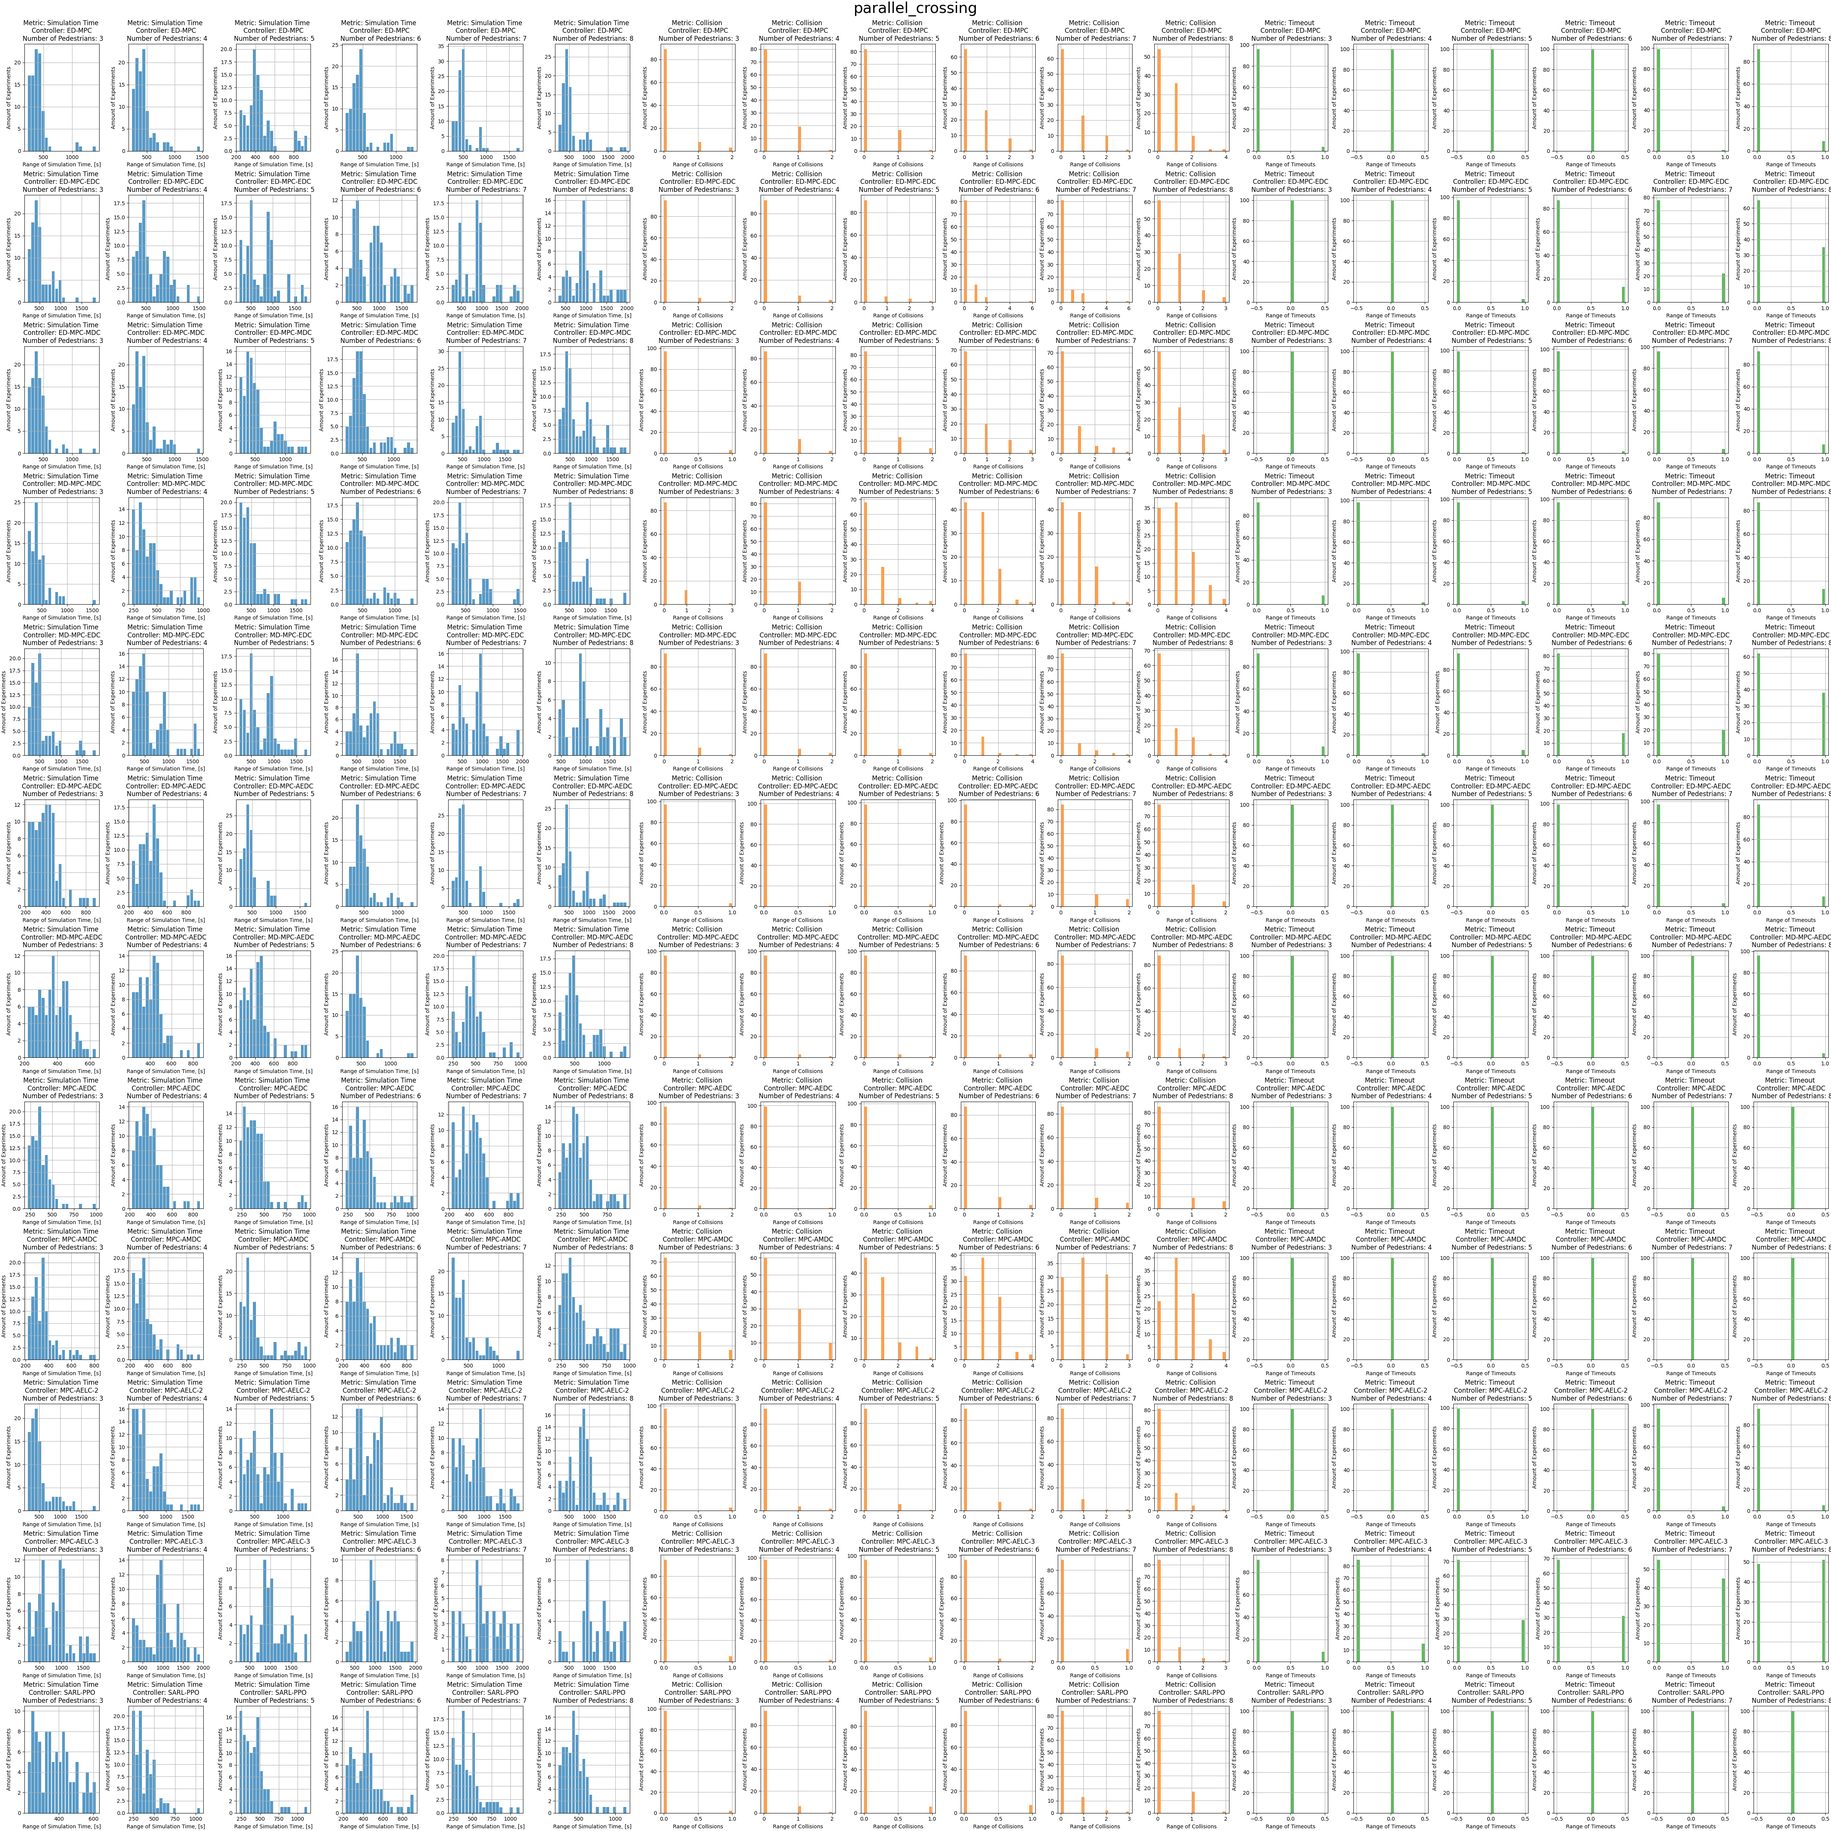
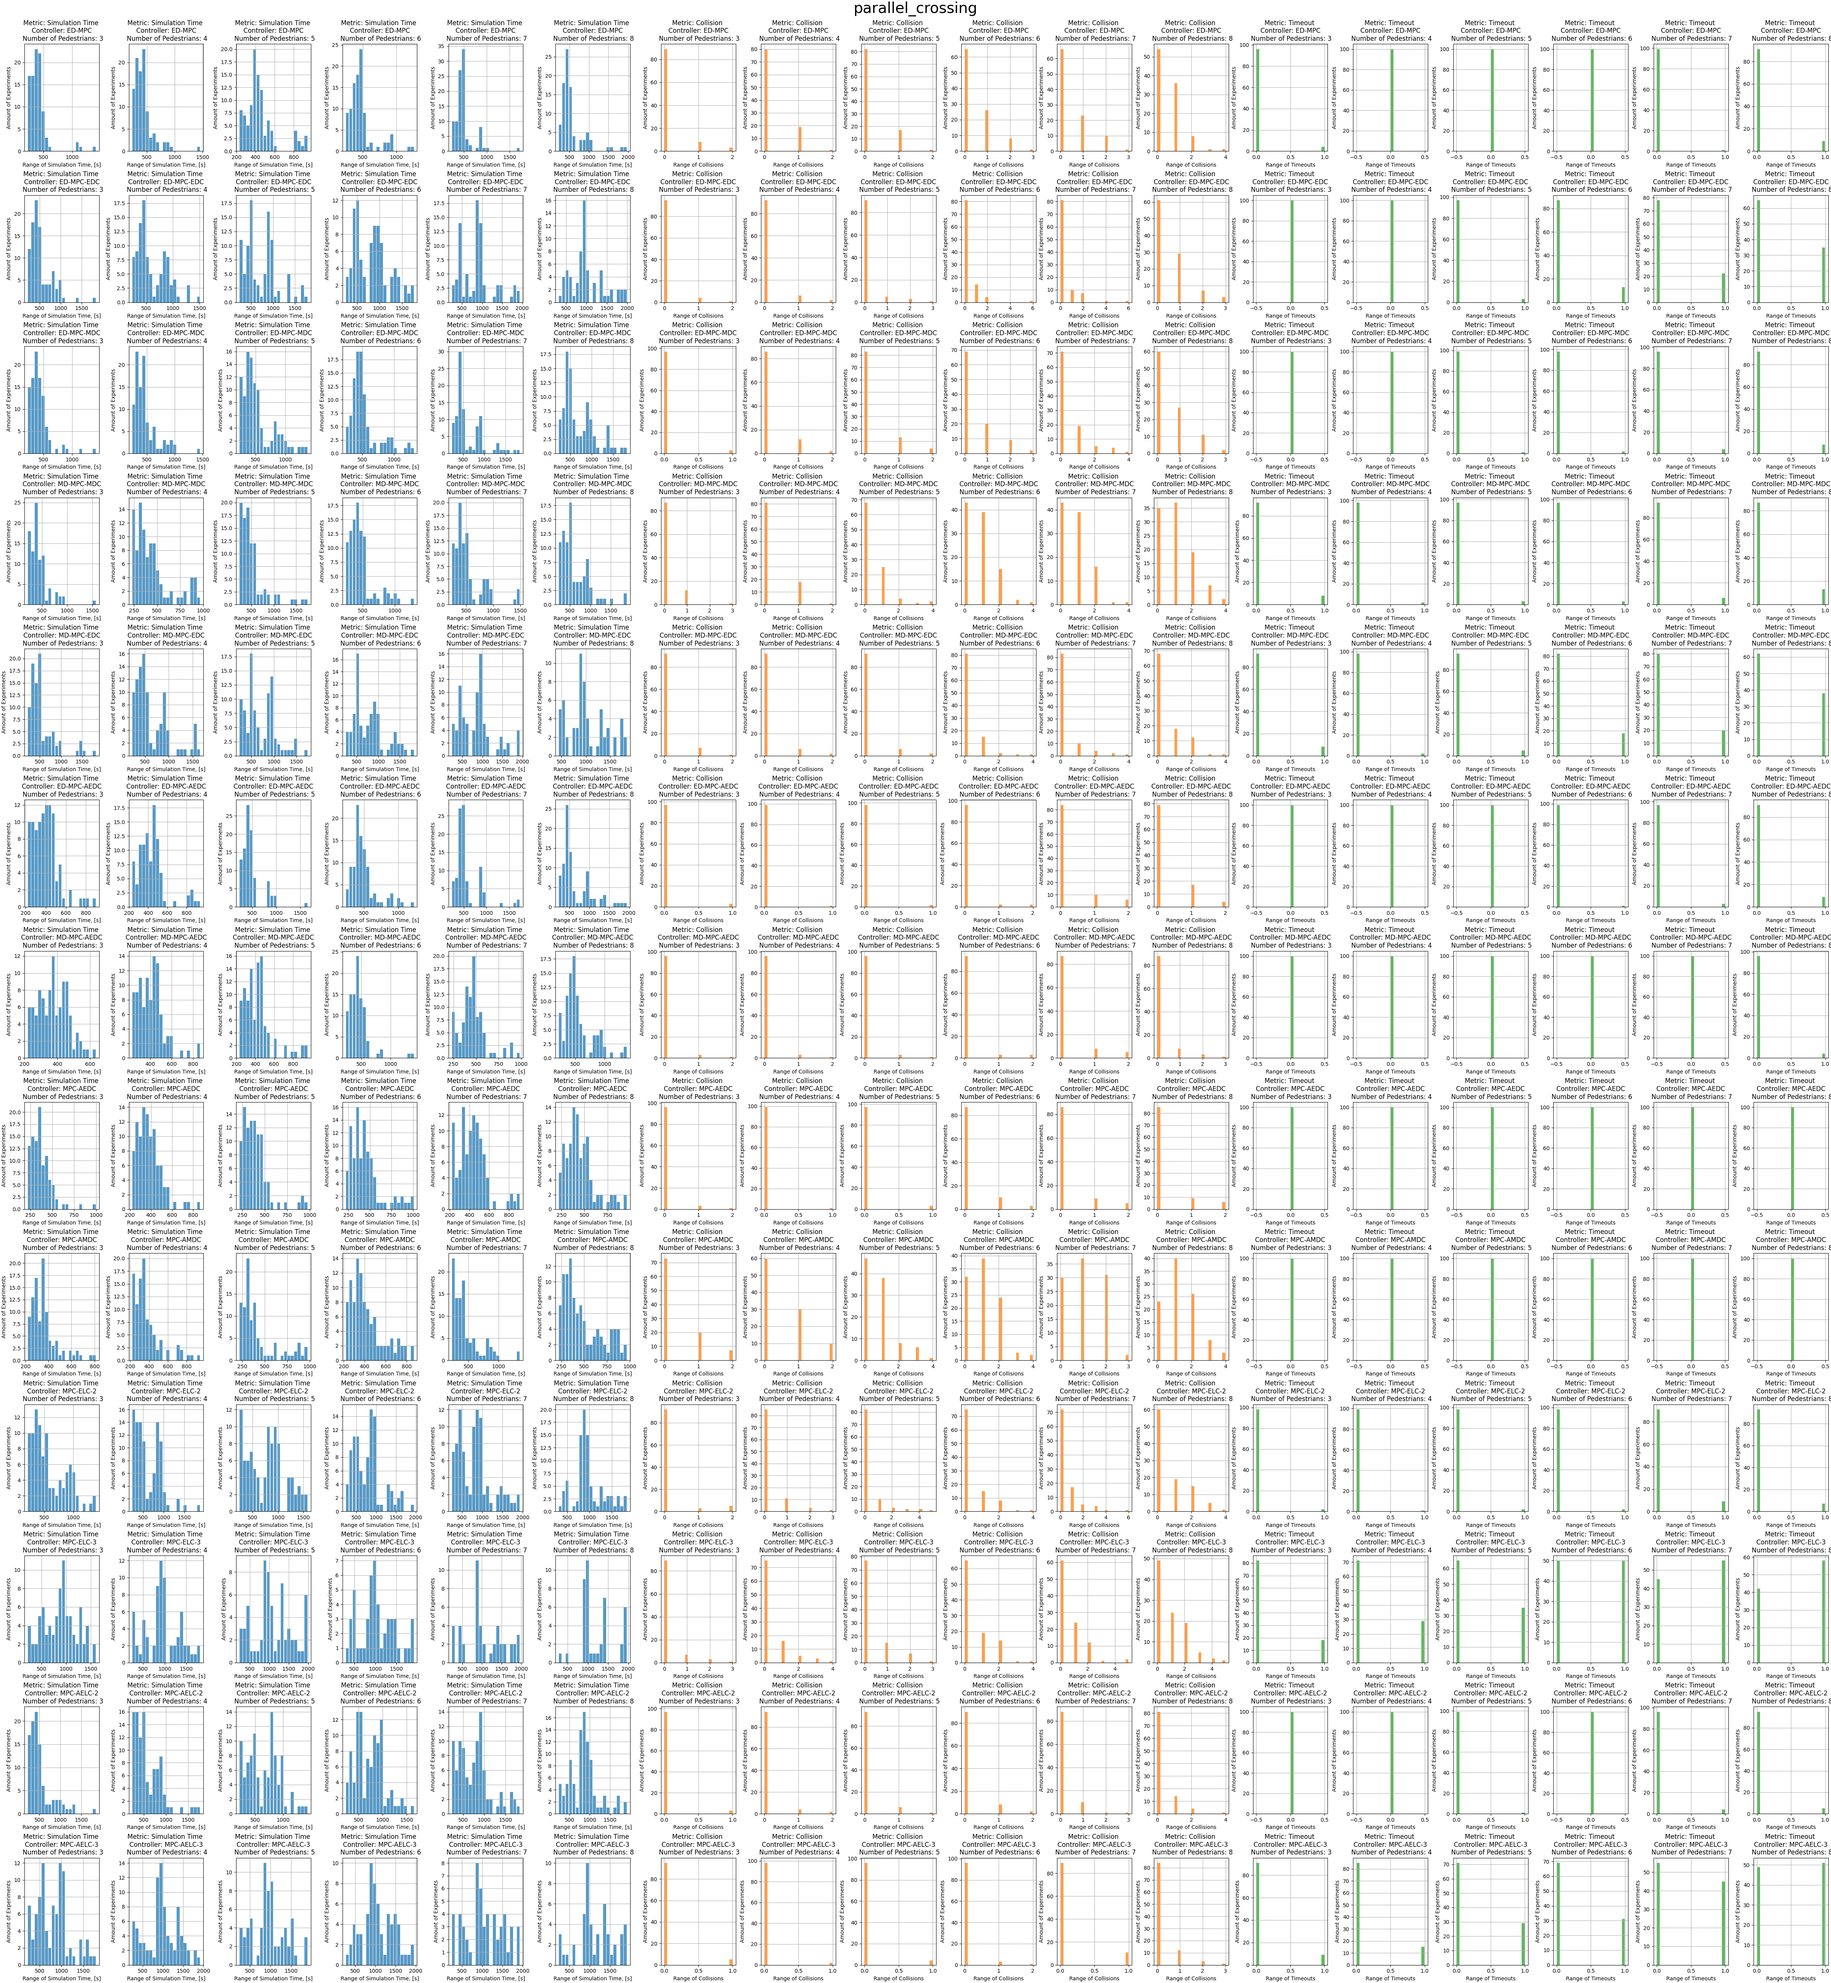
Final results

Changed region(s): [[0.0, 0.0, 1.0, 1.0], [0.9688, 0.0, 1.0, 0.0312]]

diff --git a/evaluation/scripts/collect_statistics_2.py b/evaluation/scripts/collect_statistics_2.py
@@ -55,9 +55,13 @@ def collect_statistics(folder_name: str,
 
         # Create mean plot
         fig_graph, axs_graph = plt.subplot_mosaic([[0, 1, 2]], 
-                                figsize=[25, 7], facecolor='white') #, layout='constrained'
-        #fig_graph.suptitle(scenes_list[scene_id], fontsize=28)
-
+                                figsize=[26, 8.5], facecolor='white') #, layout='constrained'
+        if scene == 'circular_crossing':
+            fig_graph.suptitle(f"Statistical Results for Circular Crossing Scenario" , fontsize=28)
+        elif scene == 'random_crossing':
+            fig_graph.suptitle(f"Statistical Results for Random Crossing Scenario" , fontsize=28)
+        else: 
+            fig_graph.suptitle(f"Statistical Results for Parallel Crossing Scenario" , fontsize=28)
         displacement = np.linspace(-0.25, 0.25, len(controller_list))
         legend_elements_controllers = []
         for controller_id, controller in enumerate(controller_list):
@@ -143,12 +147,12 @@ def collect_statistics(folder_name: str,
             # Create graph
             # Simulation step to goal
             axs_graph[0].scatter(pedestrian_range + displacement[controller_id], mean_tables_data[scene_id, controller_id, :len(pedestrian_range)], linewidth=1, label=f"{controller}", marker="o", color=DEFAULT_COLOR_HEX_PALETTE[controller_id])
-            axs_graph[0].plot(pedestrian_range + displacement[controller_id], median_tables_data[scene_id, controller_id, :len(pedestrian_range)], linewidth=2, linestyle="--", label=f"{controller}", marker="^", markersize=SIZE//2, color=DEFAULT_COLOR_HEX_PALETTE[controller_id])
+            axs_graph[0].plot(pedestrian_range + displacement[controller_id], median_tables_data[scene_id, controller_id, :len(pedestrian_range)], linewidth=1.5, linestyle="--", label=f"{controller}", marker="^", markersize=SIZE//3, color=DEFAULT_COLOR_HEX_PALETTE[controller_id])
             for i, ped in enumerate(pedestrian_range):
                 center_range = np.linspace(-0.25, 0.25, len(controller_list)) + ped
                 q25 = q25_tables_data[scene_id, controller_id, i]
                 q75 = q75_tables_data[scene_id, controller_id, i]
-                add_box(axs_graph[0], center_range[controller_id], q25, q75, color=DEFAULT_COLOR_HEX_PALETTE[controller_id], width=0.03, alpha=0.5)
+                add_box(axs_graph[0], center_range[controller_id], q25, q75, color=DEFAULT_COLOR_HEX_PALETTE[controller_id], width=0.015, alpha=0.5)
             axs_graph[0].grid(True)
             axs_graph[0].set_xlabel("Number of Pedestrians, [#]", fontsize=SIZE)
             axs_graph[0].set_ylabel("Simulation Steps to Target, [#]", fontsize=SIZE)
@@ -157,18 +161,18 @@ def collect_statistics(folder_name: str,
             #axs_graph[0].legend(fontsize=size)
             legend_elements = [Line2D([0], [0], color='black', marker="o", lw=0, label='Mean'),
                                Line2D([0], [0], marker='^', color='black', label='Median', linestyle='--',
-                          markerfacecolor='black', markersize=10),
+                          markerfacecolor='black', markersize=7),
                                Line2D([0], [0], color='black', alpha=0.5, label='IQR')]
 
             axs_graph[0].legend(handles=legend_elements, bbox_to_anchor=(-.2, 1), loc='upper right', borderaxespad=0., fontsize=20)
             # Collisions
             axs_graph[1].scatter(pedestrian_range + displacement[controller_id], mean_tables_data[scene_id, controller_id, len(pedestrian_range):len(pedestrian_range)*2], linewidth=1, label=f"{controller}",  marker="o", color=DEFAULT_COLOR_HEX_PALETTE[controller_id])
-            axs_graph[1].plot(pedestrian_range + displacement[controller_id], median_tables_data[scene_id, controller_id, len(pedestrian_range):len(pedestrian_range)*2], linewidth=2, linestyle="--",  marker="^", markersize=SIZE//2, color=DEFAULT_COLOR_HEX_PALETTE[controller_id])
+            axs_graph[1].plot(pedestrian_range + displacement[controller_id], median_tables_data[scene_id, controller_id, len(pedestrian_range):len(pedestrian_range)*2], linewidth=1.5, linestyle="--",  marker="^", markersize=SIZE//3, color=DEFAULT_COLOR_HEX_PALETTE[controller_id])
             for i, ped in enumerate(pedestrian_range):
                 center_range = np.linspace(-0.25, 0.25, len(controller_list)) + ped
                 q25 = q25_tables_data[scene_id, controller_id, i+len(pedestrian_range)]
                 q75 = q75_tables_data[scene_id, controller_id, i+len(pedestrian_range)]
-                add_box(axs_graph[1], center_range[controller_id], q25, q75, color=DEFAULT_COLOR_HEX_PALETTE[controller_id], width=0.03, alpha=0.5)
+                add_box(axs_graph[1], center_range[controller_id], q25, q75, color=DEFAULT_COLOR_HEX_PALETTE[controller_id], width=0.015, alpha=0.5)
             axs_graph[1].grid(True)
             axs_graph[1].set_xlabel("Number of Pedestrians, [#]", fontsize=SIZE)
             axs_graph[1].set_ylabel("Number of Collisions, [#]", fontsize=SIZE)
@@ -177,7 +181,7 @@ def collect_statistics(folder_name: str,
             #axs_graph[1].legend(fontsize=size)
             # Timeouts
             axs_graph[2].scatter(pedestrian_range + displacement[controller_id], mean_tables_data[scene_id, controller_id, len(pedestrian_range)*2:], linewidth=1, label=f"{controller}", marker="o", color=DEFAULT_COLOR_HEX_PALETTE[controller_id])
-            axs_graph[2].plot(pedestrian_range + displacement[controller_id], median_tables_data[scene_id, controller_id, len(pedestrian_range)*2:], linewidth=2, linestyle="--", marker="^", markersize=SIZE//2, color=DEFAULT_COLOR_HEX_PALETTE[controller_id])
+            axs_graph[2].plot(pedestrian_range + displacement[controller_id], median_tables_data[scene_id, controller_id, len(pedestrian_range)*2:], linewidth=1.5, linestyle="--", marker="^", markersize=SIZE//3, color=DEFAULT_COLOR_HEX_PALETTE[controller_id])
             # for i, ped in enumerate(pedestrian_range):
             #     center_range = np.linspace(-0.25, 0.25, len(controller_list)) + ped
             #     q25 = q25_tables_data[scene_id, controller_id, i+len(pedestrian_range)*2]
@@ -202,7 +206,7 @@ def collect_statistics(folder_name: str,
         fig_graph.subplots_adjust(left=0.18,
                     bottom=0.09,
                     right=0.999,
-                    top=0.94,
+                    top=0.85,
                     wspace=0.2,
                     hspace=0)
         

diff --git a/evaluation/scripts/run_experiment.py b/evaluation/scripts/run_experiment.py
@@ -20,8 +20,8 @@ np.random.seed(SEED)
 torch.manual_seed(SEED)
 torch.cuda.manual_seed(SEED)
 
-DEFAULT_SCENE_CONFIG_PATH = r"evaluation/studies/study_10/configs/scenes/parallel_crossing/8/57.yaml"
-DEFAULT_CONTROLLER_CONFIG_PATH = r"evaluation/studies/study_10/configs/controllers/MPC-ELC-2.yaml"
+DEFAULT_SCENE_CONFIG_PATH = r"evaluation/studies/study_10/configs/scenes/circular_crossing/8/44.yaml"
+DEFAULT_CONTROLLER_CONFIG_PATH = r"evaluation/studies/study_10/configs/controllers/MD-MPC-AEDC.yaml"
 DEFAULT_RESULT_PATH = r"results/mpc.png"
 
 def run_experiment(scene_config_path: str = DEFAULT_SCENE_CONFIG_PATH,
@@ -51,7 +51,7 @@ def run_experiment(scene_config_path: str = DEFAULT_SCENE_CONFIG_PATH,
                                      config["pedestrians_init_states"],
                                      config["pedestrians_goals"],
                                      config["ped_model"],
-                                     create_renderer = False)
+                                     create_renderer = True)
     
     predictor = PredictorFactory.create_predictor(config)
 

diff --git a/evaluation/scripts/start_experiments_pipeline.py b/evaluation/scripts/start_experiments_pipeline.py
@@ -37,6 +37,7 @@ def run_experiment(experiment_config_path: str = DEFAULT_EXPERIMENT_CONFIG_PATH)
         print("--------------------Scenes are generated!--------------------")
 
     if False:
+        
         # Conduct experiments
         print("-------------2. Starting to conduct experiments!-------------")
         input_data_list = []
